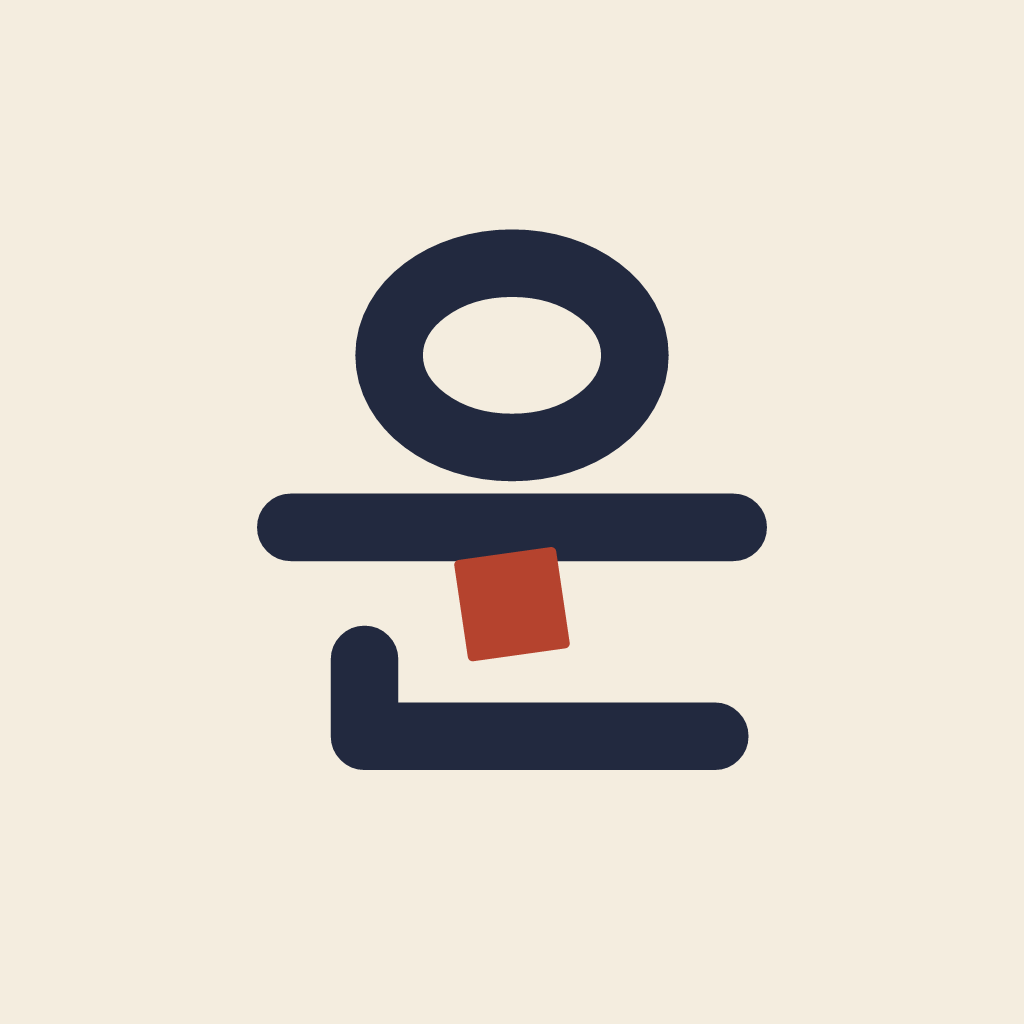
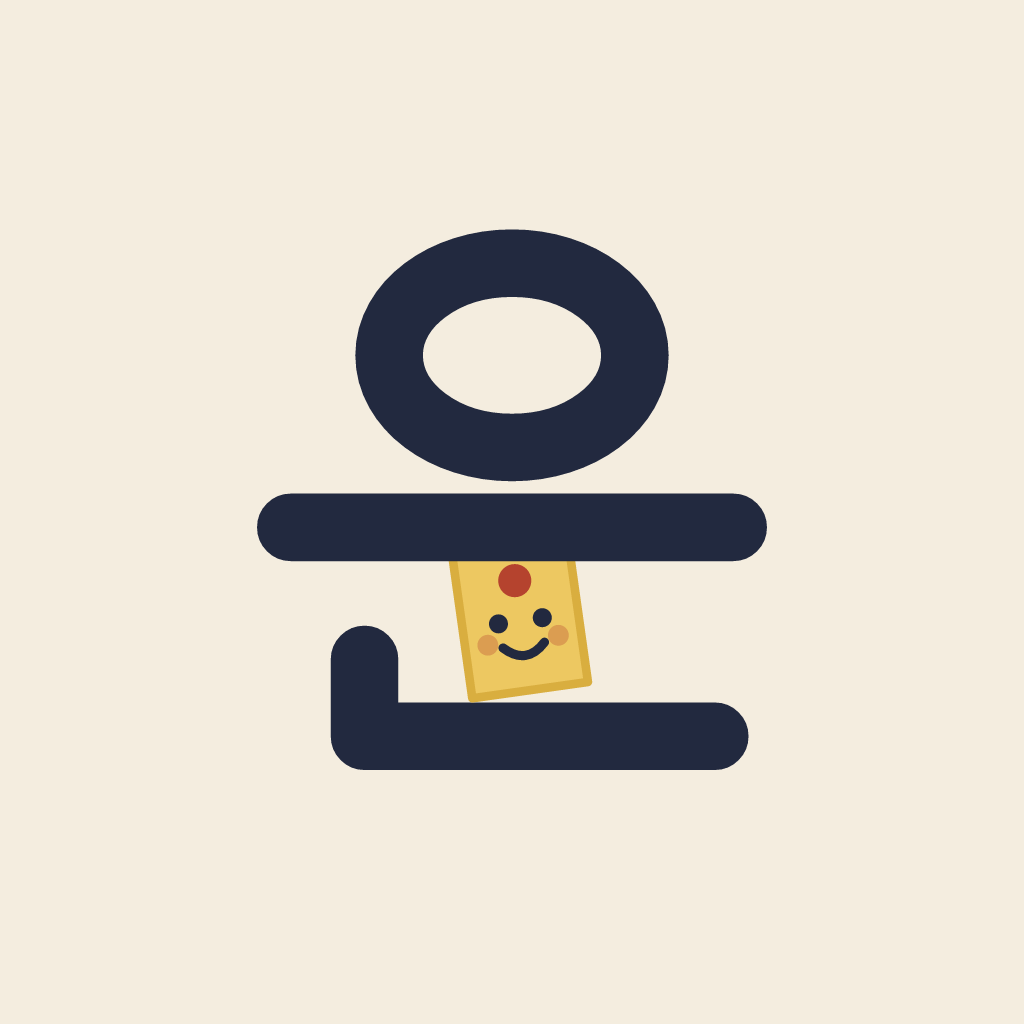
로고 '운'의 ㅜ 기둥을 귀여운 부적으로
- 붉은 사각형 → 웃는 얼굴 · 붉은 도장 · 볼이 있는 작은 노란 부적(ㅜ 가로획에 매달린 모양)
- 회전은 좌표로 미리 계산(웹·앱·공유 이미지 동일), 앱 아이콘·스플래시·파비콘·워드마크 재생성

Changed region(s): [[0.4375, 0.5312, 0.5938, 0.6875]]

diff --git a/scripts/render-icons.js b/scripts/render-icons.js
@@ -2,21 +2,25 @@
  * 운Pick 앱 아이콘 · 적응형 아이콘 · 스플래시 · 파비콘 생성 (assets/)
  * 사용: npm run icons
  * 로고는 글꼴이 아니라 직접 그린 단선 레터링(획 두께 11, 둥근 끝). src/components/BrandMark.tsx 와 같은 패스.
- * 시그니처: '운'의 ㅜ 기둥 자리에 놓인 붉은 낙관 사각형 — 오늘 뽑은(Pick) 그 한 점.
+ * 시그니처: '운'의 ㅜ 기둥 자리에 매달린 작은 노란 부적(웃는 얼굴 · 붉은 도장) — 오늘 뽑은(Pick) 행운.
  */
 const { Resvg } = require('@resvg/resvg-js');
 const fs = require('fs');
 const path = require('path');
 const NM = path.resolve(__dirname, '../node_modules/@expo-google-fonts/hahmlet');
 const FONTS = [NM + '/700Bold/Hahmlet_700Bold.ttf'];
-const NAVY = '#22293F', CREAM = '#F4EDDF', RED = '#B5432E', MUTE = '#857C6E';
+const NAVY = '#22293F', CREAM = '#F4EDDF', RED = '#B5432E', MUTE = '#857C6E', YEL = '#EDC861', YEL2 = '#D9AE3F';
 const st = c => `fill="none" stroke="${c}" stroke-width="11" stroke-linecap="round" stroke-linejoin="round"`;
 /** 운 (0..100) */
 const un = (c = NAVY) => `
   <ellipse cx="50" cy="24.5" rx="20" ry="15" ${st(c)}/>
-  <path d="M14 52.5 H86" ${st(c)}/>
-  <path d="M41.4 58.6 L56.4 56.5 L58.6 71.4 L43.6 73.5 Z" fill="${RED}" stroke="${RED}" stroke-width="1.6" stroke-linejoin="round"/>
-  <path d="M26 74 V86.5 H83" ${st(c)}/>`;
+  <path d="M26 74 V86.5 H83" ${st(c)}/>
+  <path d="M 40.24 56.85 L 59.06 54.2 L 62.36 77.67 L 43.54 80.32 Z" fill="${YEL}" stroke="${YEL2}" stroke-width="1.4" stroke-linejoin="round"/>
+  <circle cx="50.45" cy="61.17" r="2.7" fill="${RED}"/>
+  <circle cx="47.8" cy="68.21" r="1.55" fill="${NAVY}"/><circle cx="54.93" cy="67.2" r="1.55" fill="${NAVY}"/>
+  <path d="M 48.55 72.14 Q 52.39 75.03 55.29 71.19" fill="none" stroke="${NAVY}" stroke-width="1.5" stroke-linecap="round"/>
+  <circle cx="46.07" cy="71.68" r="1.7" fill="${RED}" opacity="0.32"/><circle cx="57.55" cy="70.07" r="1.7" fill="${RED}" opacity="0.32"/>
+  <path d="M14 52.5 H86" ${st(c)}/>`;
 /** Pick (운 뒤 x=110부터) */
 const pick = (c = NAVY) => `
   <path d="M0 86.5 V13 H15 A18.5 18.5 0 0 1 15 50 H0" ${st(c)}/>

diff --git a/docs/BRAND.md b/docs/BRAND.md
@@ -26,12 +26,12 @@
 | 요소 | 설명 |
 |---|---|
 | 워드마크 **운Pick** | 글꼴이 아니라 직접 그린 단선 레터링. 획 두께 11 · 둥근 끝 · '운'과 'Pick'의 높이·두께를 하나로 맞춤 |
-| 시그니처 | '운'의 ㅜ 기둥 자리에 놓인 **붉은 낙관 사각형**(-8°) — 오늘 뽑은(Pick) 그 한 점. 로고 안의 유일한 색 |
+| 시그니처 | '운'의 ㅜ 기둥 자리에 매달린 **작은 노란 부적**(-8°) — 웃는 얼굴 · 붉은 도장 · 발그레한 볼. 오늘 뽑은(Pick) 행운을 귀엽게. 로고 안의 유일한 색 |
 | 앱 아이콘 | 워드마크의 '운'만 떼어 한지색 바탕 위에 (`assets/icon.png`) |
 | 사용 규칙 | **한 화면에 로고는 하나만.** 첫 화면·헤더·공유 카드는 워드마크, 앱 아이콘·로딩·작은 자리는 '운' 마크 |
 | 코드 | `src/components/BrandMark.tsx` — `BrandMark`(워드마크) · `LogoMark`('운'). `npm run icons`가 같은 패스로 아이콘을 만들어요 |
 
-- 낙관은 회전 속성 없이 꼭짓점 좌표로 그려서 앱·웹·공유 이미지 어디서나 같은 자리에 찍혀요.
+- 부적은 회전 속성 없이 꼭짓점·얼굴 좌표를 미리 계산해 그려서 앱·웹·공유 이미지 어디서나 같은 모양이에요. 색: 부적 `#EDC861` · 테두리 `#D9AE3F`.
 - 시안 비교(`docs/logo-concepts.png`)의 '운!'(글꼴형)은 글꼴로만 만들어 가볍게 보여서 레터링으로 대체했어요.
 - 쓰지 않는 것: 초승달·별·반짝이(✦)·보라 그라데이션·네온·마스코트, 기성 글꼴 그대로의 로고.
 
